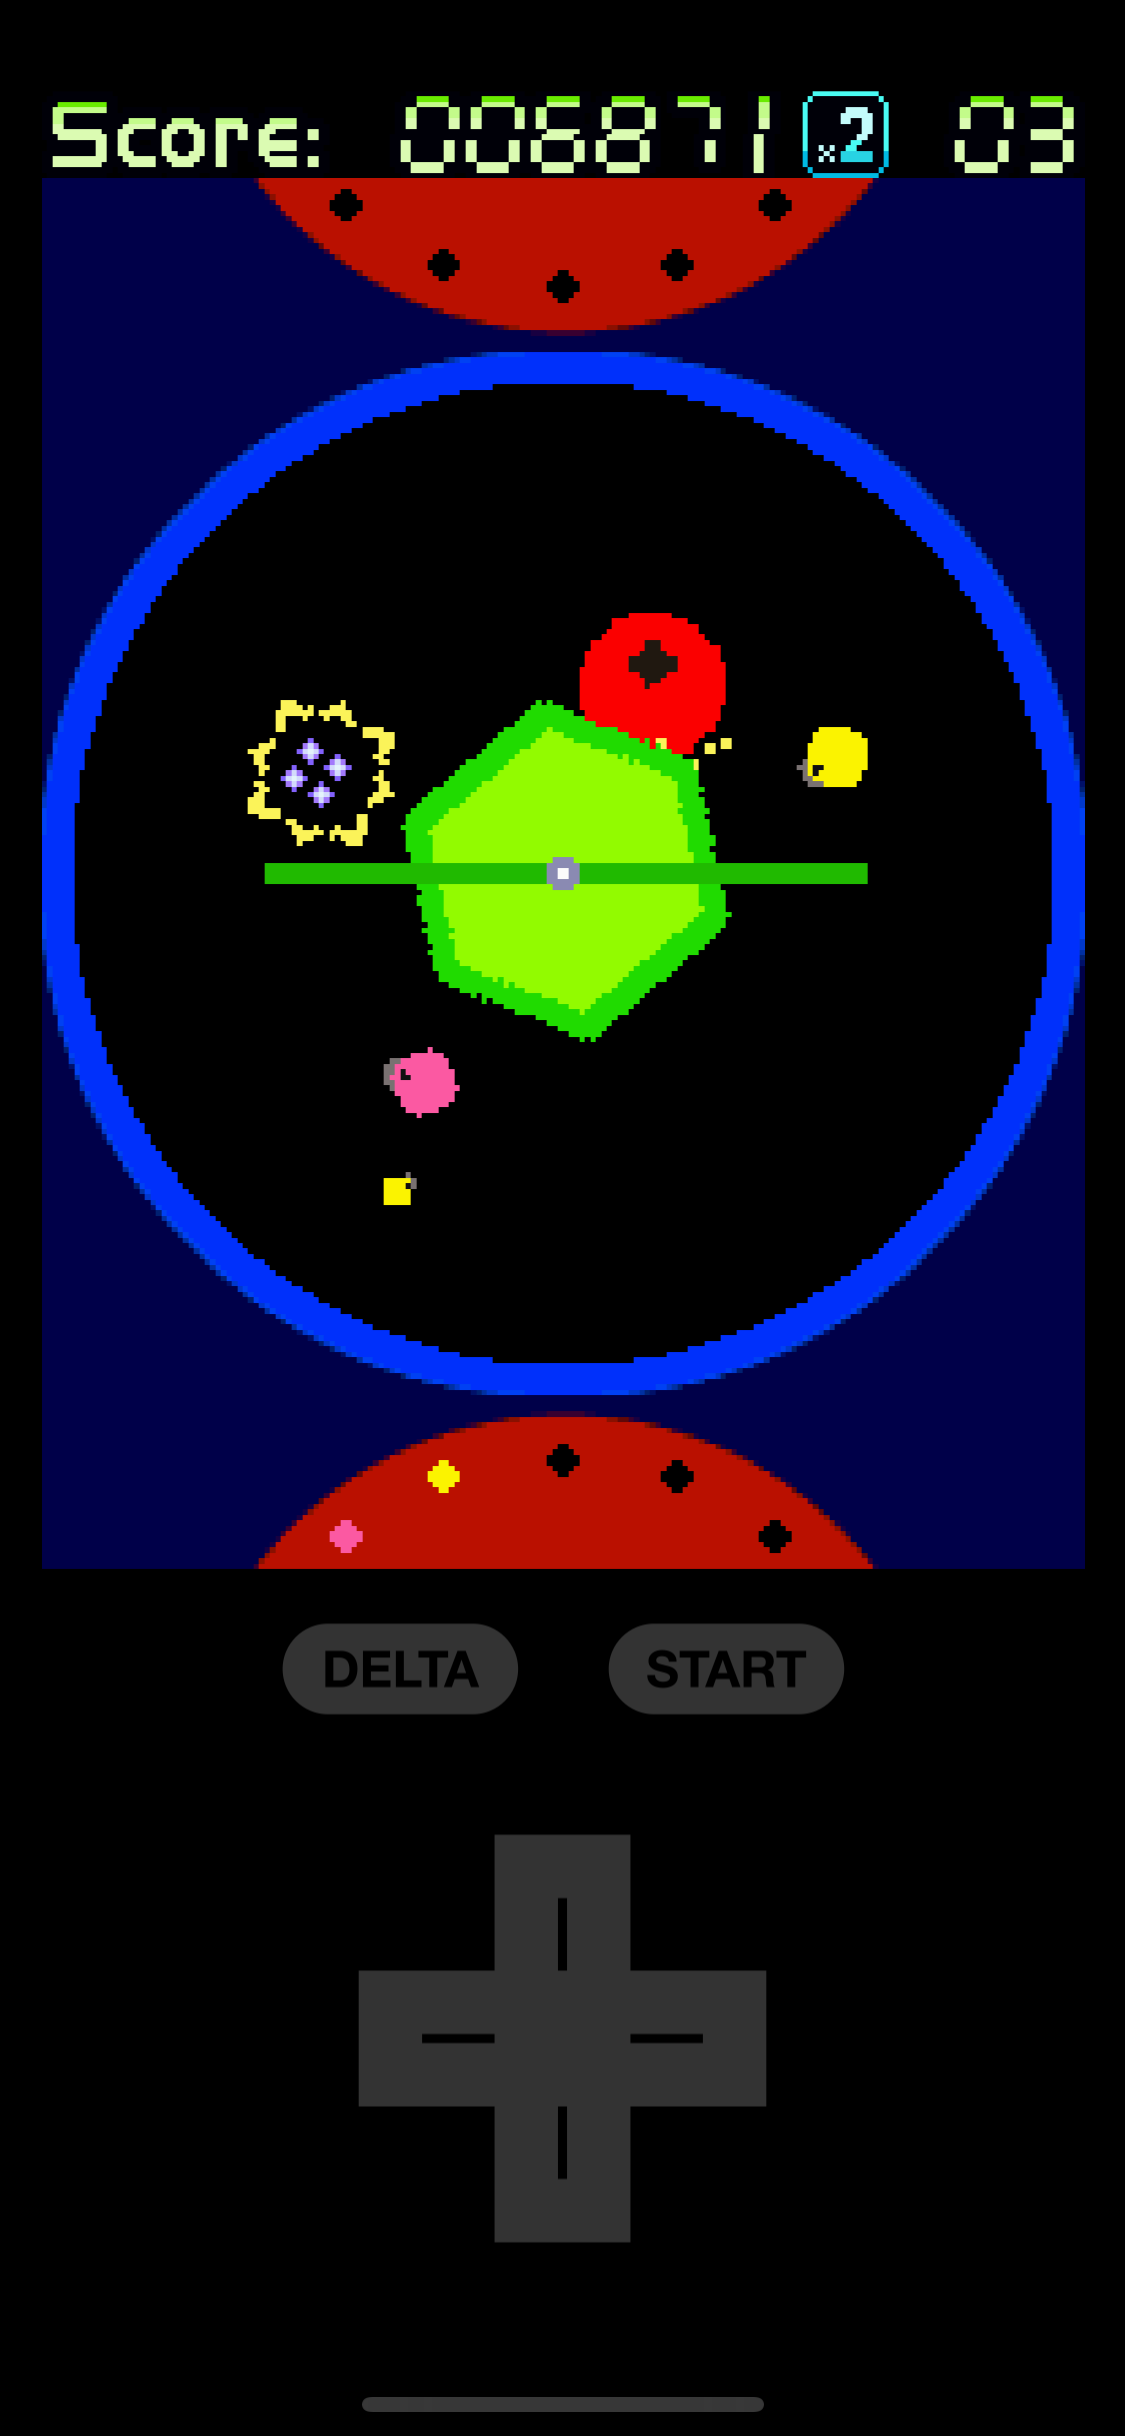
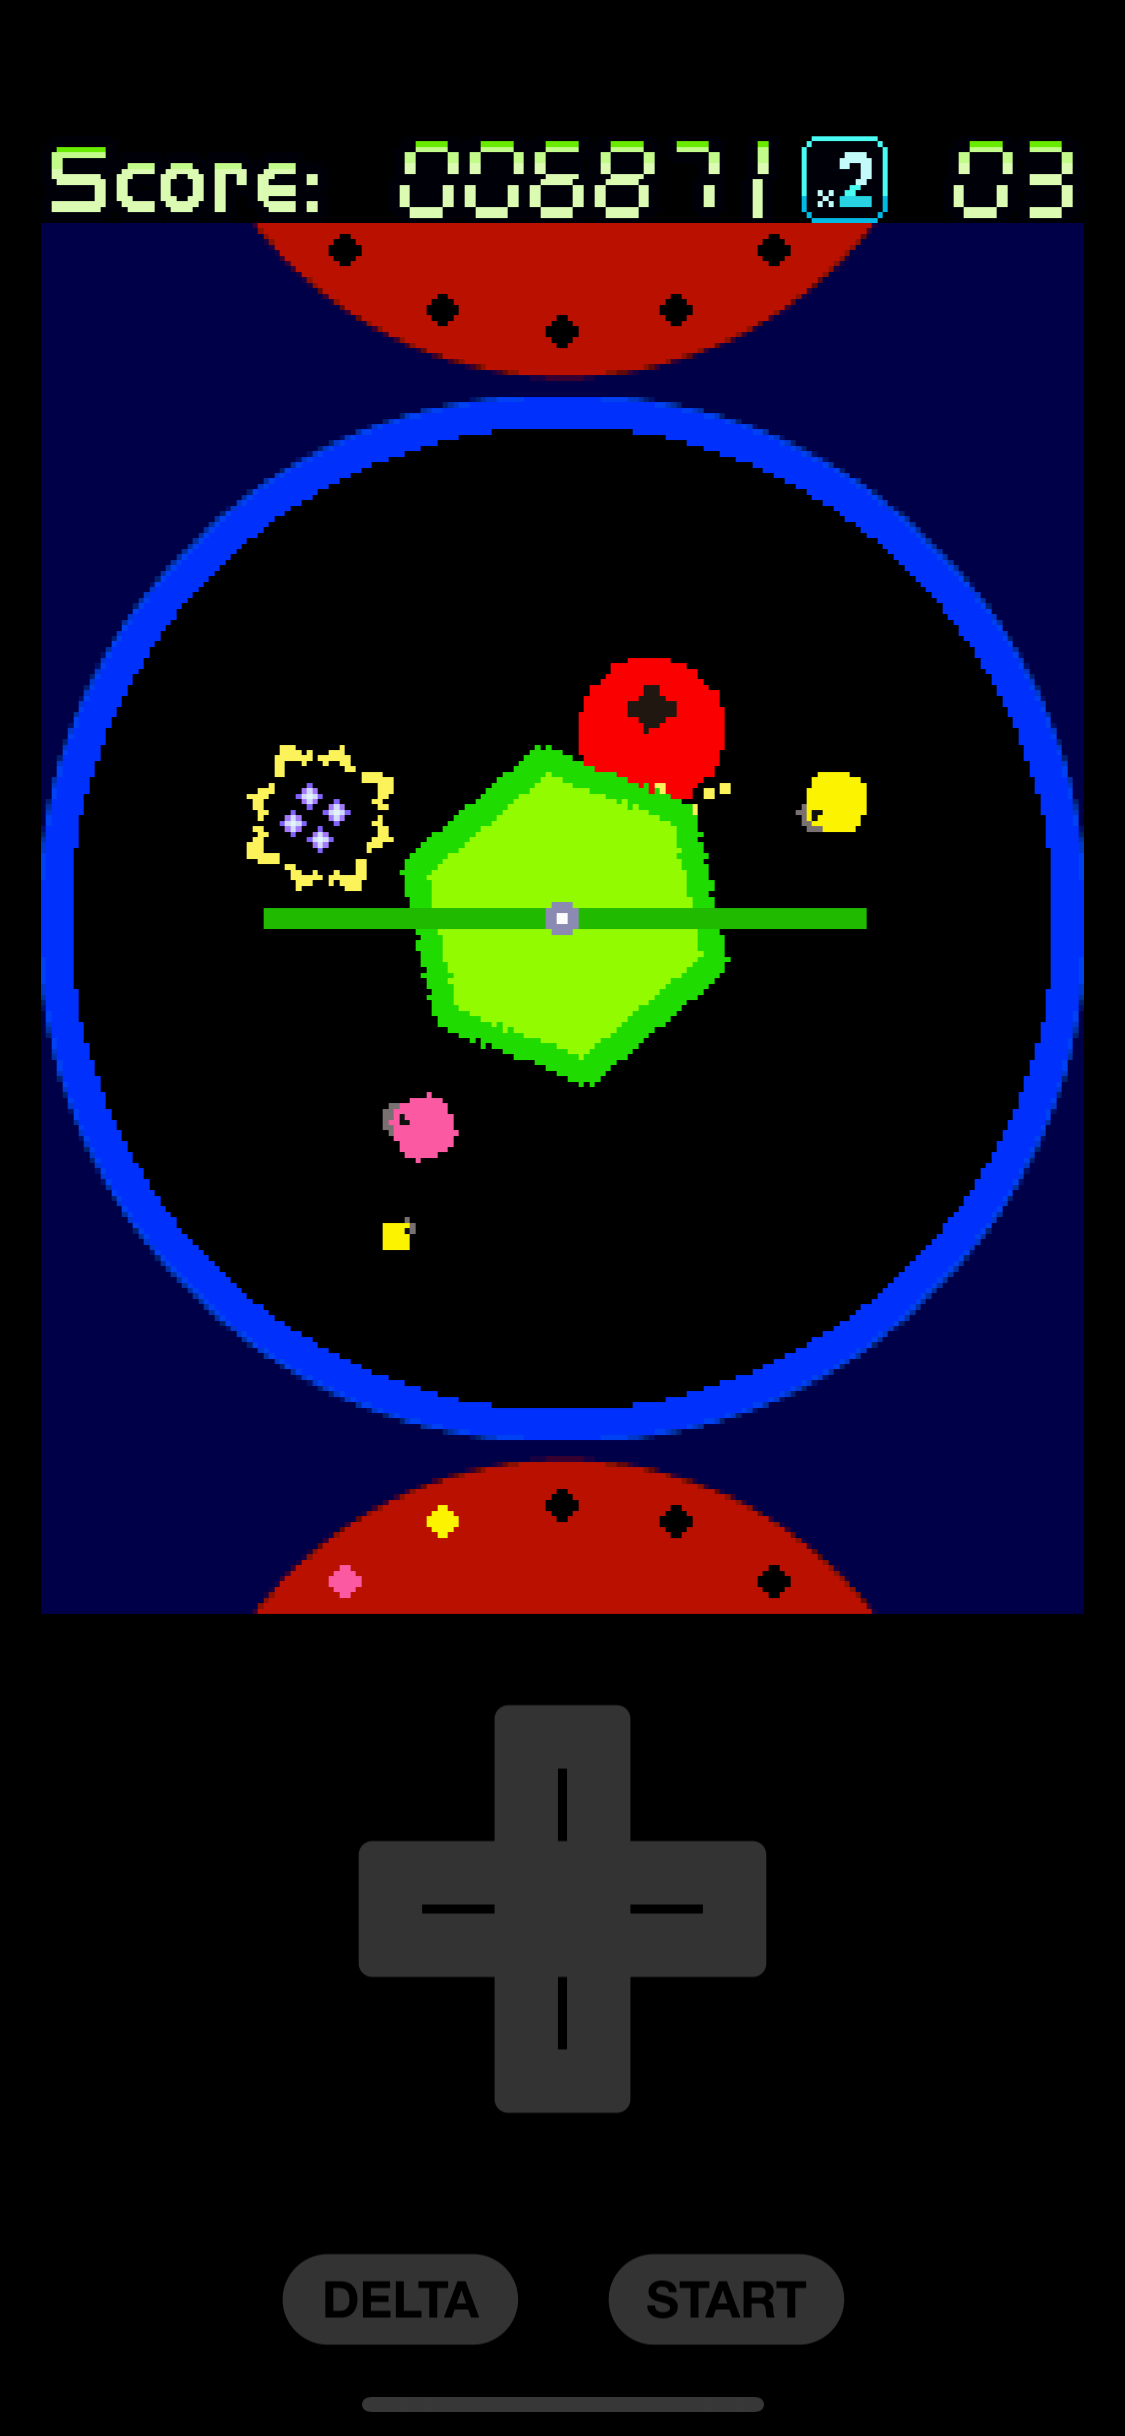
upd

Changed region(s): [[0.0311, 0.0312, 0.9644, 0.9672]]

diff --git a/_posts/2024/2024-04-18-per-game-skins-in-the-delta-classic-video-game-emulator-for-ios.md b/_posts/2024/2024-04-18-per-game-skins-in-the-delta-classic-video-game-emulator-for-ios.md
@@ -64,7 +64,8 @@ I achived this goal as follows:
 2. rotate each of the screens
 3. overlap the screens so that only the score from the secondary screen is visible
 4. rotate the d-pad direction controls
-5. create a nice PDF to show the buttons visually
+5. made the touch/game screen a big button
+6. create a nice PDF to show the buttons visually
 
 If you're interested in the JSON associated with this skin, [here it is on GitHub](https://gist.github.com/gingerbeardman/00a75a0675da8a98faa0812383eb822e).
 
